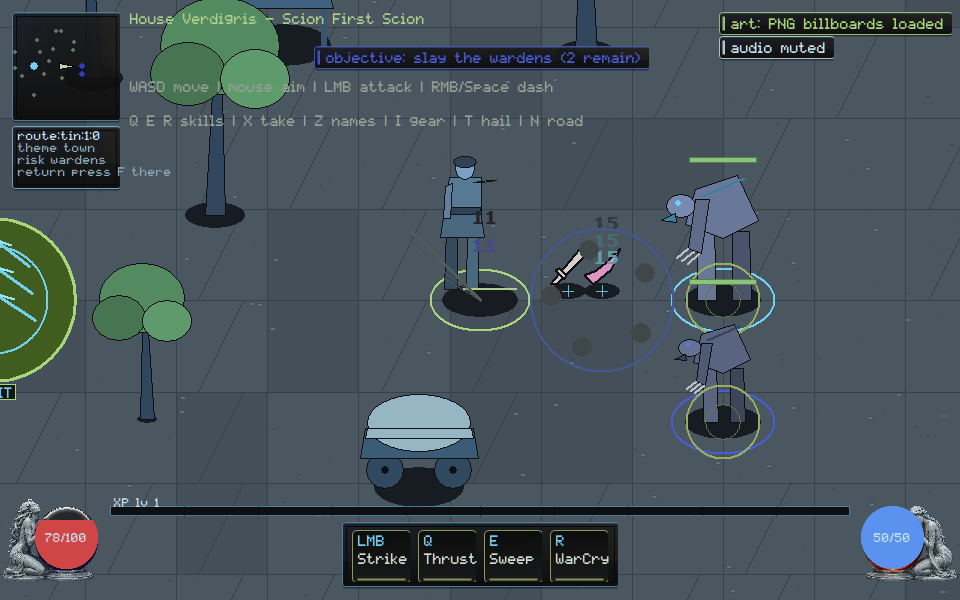
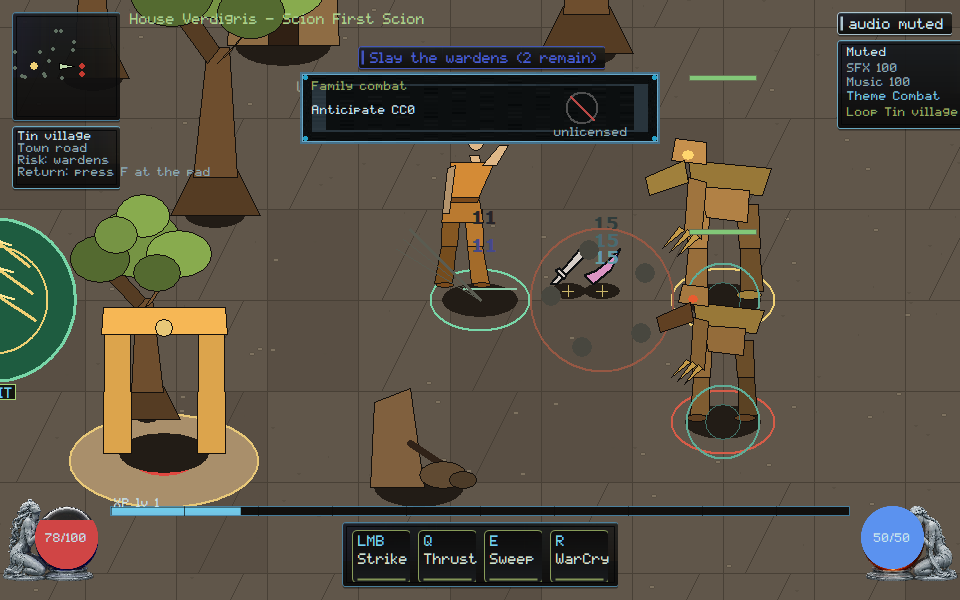
native: name the licensed combat family so an unlicensed preview cannot certify

diff --git a/native/client/main.cpp b/native/client/main.cpp
@@ -474,6 +474,7 @@ struct ClientState {
   bool voice_budget_review_strip = false;
   bool tone_adapter_review_strip = false;
   bool recover_review_strip = false;
+  bool legal_sounds_review_strip = false;
   bool debug_overlay = false;
   // Last full paint_scene duration in milliseconds (F3 overlay); the honest
   // per-frame budget readout that catches presentation-cost regressions.
@@ -6345,6 +6346,46 @@ void paint_recover_review_strip(ClientState& state, HDC dc, const RECT& bounds,
   SelectObject(dc, old_font);
 }
 
+void paint_legal_sounds_review_strip(ClientState& state, HDC dc, const RECT& bounds,
+                                     render::List& rl) {
+  if (!state.legal_sounds_review_strip) return;
+  const int s = hud_scale(static_cast<int>(bounds.bottom));
+  const int pane_w = 360 * s;
+  const int pane_h = 72 * s;
+  const int left = (static_cast<int>(bounds.right) - pane_w) / 2;
+  const int top = 72 * s;
+  RECT pane{left, top, left + pane_w, top + pane_h};
+  if (!draw_framekit_nine(state.billboards, dc, state.billboards.fk_panel, pane))
+    skin::panel(dc, pane, skin::kVerdigris, 235, 8.0f);
+  rl.push_back({render::Op::Hud, static_cast<double>(left),
+                static_cast<double>(top), 0.0, 1, "legal-strip"});
+  SetBkMode(dc, TRANSPARENT);
+  HGDIOBJ old_font = SelectObject(dc, skin::font_small());
+  SetTextColor(dc, skin::kVerdigris);
+  const char* title = verdigris::client::sound_family::owner_family_label();
+  TextOutA(dc, left + 12 * s, top + 8 * s, title, static_cast<int>(strlen(title)));
+  SetTextColor(dc, skin::kInk);
+  const char* anticipate = verdigris::client::sound_family::owner_anticipate_label();
+  TextOutA(dc, left + 12 * s, top + 32 * s, anticipate,
+           static_cast<int>(strlen(anticipate)));
+  const int rx = left + pane_w - 78 * s;
+  const int ry = top + 36 * s;
+  ring_ellipse(dc, rx, ry, 16 * s, 16 * s, RGB(80, 80, 80), 2);
+  draw_line(dc, rx - 12 * s, ry - 12 * s, rx + 12 * s, ry + 12 * s, RGB(185, 72, 69),
+            2);
+  SetTextColor(dc, skin::kInkDim);
+  const char* rejected = "unlicensed";
+  TextOutA(dc, rx - 28 * s, top + pane_h - 18 * s, rejected,
+           static_cast<int>(strlen(rejected)));
+  rl.push_back({render::Op::Hud, static_cast<double>(left + 12 * s),
+                static_cast<double>(top + 8 * s), 0.0, 1, "family:combat"});
+  rl.push_back({render::Op::Hud, static_cast<double>(left + 12 * s),
+                static_cast<double>(top + 32 * s), 0.0, 1, "anticipate:cc0"});
+  rl.push_back({render::Op::Hud, static_cast<double>(rx), static_cast<double>(ry),
+                0.0, 0, "legal-strip:unlicensed-rejected"});
+  SelectObject(dc, old_font);
+}
+
 const char* attack_stage_label(vector_art::Pose::AttackStage stage) {
   switch (stage) {
     case vector_art::Pose::AttackStage::Windup:
@@ -7368,6 +7409,7 @@ void paint_scene(ClientState& state, HDC dc, const RECT& bounds) {
   paint_voice_budget_review_strip(state, dc, bounds, rl);
   paint_tone_adapter_review_strip(state, dc, bounds, rl);
   paint_recover_review_strip(state, dc, bounds, rl);
+  paint_legal_sounds_review_strip(state, dc, bounds, rl);
 
   state.render_list = std::move(rl);
   if (state.debug_overlay) {
@@ -10835,10 +10877,16 @@ int scenario_legal_sounds() {
   scenario_check(shippable("hit") && shippable("crit") && shippable("kill") &&
                      shippable("scion-lost") && shippable("warcry-expire"),
                  "legal-sounds: impact and warning cues carry SPDX provenance");
-  scenario_check(shippable("cosmetic"),
-                 "legal-sounds: swing-family placeholder is sourced");
+  scenario_check(shippable("attack-anticipate") && shippable("cosmetic"),
+                 "legal-sounds: swing-family windup attack-anticipate is sourced");
   scenario_check(!shippable("unlicensed-preview"),
                  "legal-sounds: missing provenance cannot ship even if audible");
+  scenario_check(verdigris::client::sound_family::unlicensed_preview_fails_review(
+                     "unlicensed-preview"),
+                 "legal-sounds: unlicensed-preview fails review");
+  scenario_check(!verdigris::client::sound_family::unlicensed_preview_fails_review(
+                     "attack-anticipate"),
+                 "legal-sounds: sourced anticipate is not treated as unlicensed");
   ClientState state;
   scenario_begin(state);
   for (int i = 0; i < 52; ++i)
@@ -10847,9 +10895,11 @@ int scenario_legal_sounds() {
     scenario_step(state, verdigris::Command::action_use(verdigris::ActionType::Melee));
   bool heard = false;
   bool all_legal = true;
+  bool voiced_anticipate = false;
   for (const auto& cue : state.audio_voiced) {
     if (cue.rfind("ambience:", 0) == 0 || cue.rfind("music:", 0) == 0) continue;
     heard = true;
+    if (cue == "attack-anticipate") voiced_anticipate = true;
     if (!shippable(cue.c_str())) {
       all_legal = false;
       std::printf("    illegal cue: %s\n", cue.c_str());
@@ -10858,6 +10908,8 @@ int scenario_legal_sounds() {
   scenario_check(heard, "legal-sounds: an ordinary fight actually voiced cues");
   scenario_check(all_legal,
                  "legal-sounds: every voiced combat cue is in the licensed family");
+  scenario_check(voiced_anticipate,
+                 "legal-sounds: the fight voiced the licensed swing windup");
   const std::string dir = art_wave_capture_dir();
   if (dir.empty()) {
     scenario_check(false, "legal-sounds: capture root rejected before any write");
@@ -10865,7 +10917,7 @@ int scenario_legal_sounds() {
   }
   const std::string manifest = dir + "\\legal-sounds-provenance.txt";
   FILE* out = nullptr;
-  fopen_s(&out, manifest.c_str(), "w");
+  fopen_s(&out, manifest.c_str(), "wb");
   scenario_check(out != nullptr, "legal-sounds: provenance table opened");
   if (out) {
     std::fprintf(out, "family=combat\nnegative=unlicensed-preview\n");
@@ -10876,9 +10928,23 @@ int scenario_legal_sounds() {
     std::fclose(out);
   }
   scenario_follow_camera(state);
+  state.legal_sounds_review_strip = true;
   const std::string png = dir + "\\legal-sounds-960x600.png";
   scenario_check(reference_present(state, 960, 600, png),
                  "legal-sounds: fight capture written");
+  bool family_hud = false;
+  bool anticipate_hud = false;
+  bool rejected_hud = false;
+  for (const auto& item : state.render_list) {
+    if (item.op != render::Op::Hud) continue;
+    if (item.label == "family:combat") family_hud = true;
+    if (item.label == "anticipate:cc0") anticipate_hud = true;
+    if (item.label == "legal-strip:unlicensed-rejected") rejected_hud = true;
+  }
+  scenario_check(family_hud && anticipate_hud,
+                 "legal-sounds: live HUD names Family combat and Anticipate CC0");
+  scenario_check(rejected_hud,
+                 "legal-sounds: live HUD rejects unlicensed as a passing family");
   return scenario_failures;
 }
 

diff --git a/native/client/sound_family.hpp b/native/client/sound_family.hpp
@@ -38,4 +38,11 @@ inline bool shippable(const char* cue_id) {
          row->source[0] != '\0';
 }
 
+inline bool unlicensed_preview_fails_review(const char* cue_id) {
+  return !shippable(cue_id);
+}
+
+inline const char* owner_family_label() { return "Family combat"; }
+inline const char* owner_anticipate_label() { return "Anticipate CC0"; }
+
 }  // namespace verdigris::client::sound_family

diff --git a/docs/rebuild/HANDOFF.md b/docs/rebuild/HANDOFF.md
@@ -1,5 +1,15 @@
 # Native reconstitution handoff
 
+## 2026-09-06 — licensed combat family on the fight (Cursor)
+
+- VG-SOUND-002: owner Family combat strip paints Anticipate CC0. An
+  unlicensed preview cannot certify even if the mixer would play it.
+  Provenance table stays SPDX CC0 including swing windup
+  `attack-anticipate`. The recapture is the tin-village fight, not a
+  generic spawn.
+- Scenario `legal-sounds` PASS. Capture viewed. Not a WAV bank. Not
+  Owner Demo. VG-TOOLS-003 stays Kimi.
+
 ## 2026-09-06 — restore keeps one live buffer (Cursor)
 
 - VG-GPU-008: recreate/resize/minimize-restore keep one pixel buffer.
@@ -312,6 +322,7 @@
   cannot pass. Scenario `bronze-stone`. Capture
   `docs/execution/captures/art-wave/bronze-stone-960x600.png`.
 - VG-SOUND-002: combat family includes swing windup `attack-anticipate`.
+  Owner Family combat / Anticipate CC0; unlicensed is the rejected control.
   `unlicensed-preview` cannot ship. Scenario `legal-sounds`. Capture
   `docs/execution/captures/art-wave/legal-sounds-960x600.png`.
 - VG-GOV-008: pack `roadmap.py validate` (200/689) plus unittest overlap
@@ -599,8 +610,8 @@ owner-stamped. Dual program heads: this branch vs
 - VG-UI-008: XInput on the 20 Hz tick (injected `PadReport` for harness).
   Glyphs `pad-glyph:*`, hotplug in/out. Mouse coordinates cannot set
   `pad:connected`. Scenario `pad-path`.
-- VG-SOUND-002: SPDX CC0 family in `sound_family.hpp`. Scenario
-  `legal-sounds`.
+- VG-SOUND-002: SPDX CC0 family in `sound_family.hpp`. Owner strip names
+  Family combat / Anticipate CC0. Scenario `legal-sounds`.
 - VG-SOUND-008: `music:explore|combat|recovery|none|muted`. Coalesced
   submit; unloaded session cannot keep a competing want. Scenario
   `music-phase`.

diff --git a/docs/execution/CROSSWALK.md b/docs/execution/CROSSWALK.md
@@ -145,7 +145,8 @@ VG-UI-008: XInput sampled on the fixed tick; A strike / B dash / X take /
 Y gear; hotplug in/out; mouse position cannot mint `pad:connected`.
 Scenario `pad-path`. Evidence `docs/execution/evidence/VG-UI-008.json`.
 VG-SOUND-002: CC0 provenance table for combat cues including swing windup
-`attack-anticipate`. `unlicensed-preview` cannot ship. Scenario `legal-sounds`.
+`attack-anticipate`. Live HUD paints Family combat / Anticipate CC0.
+`unlicensed-preview` cannot ship. Scenario `legal-sounds`.
 Evidence `docs/execution/evidence/VG-SOUND-002.json`.
 VG-SOUND-008: explore/combat/recovery music coalesced per drain; unload
 sets `music:none` and mutes the music bus so a leftover combat loop cannot

diff --git a/orchestration/CURSOR_KIMI_LANES.md b/orchestration/CURSOR_KIMI_LANES.md
@@ -594,3 +594,13 @@ Please move off that branch before taking a new native path.
 - **Stay off** `native/client/main.cpp` and `docs/execution/**`. SEC/CORE
   remain yours. GOV-002 still unstamped.
 
+## Cursor reply (2026-09-06, licensed combat family)
+
+- **Lease:** `main.cpp` still **ACTIVE**. `remote_session.cpp` stays
+  **RELEASED**. Do not re-spec TASK-0108 core/wire (`3b929637`).
+- **Landed this push:** VG-SOUND-002 — owner Family combat / Anticipate
+  CC0; unlicensed cannot certify. Capture viewed. Not a WAV bank. Not
+  Owner Demo. VG-TOOLS-003 stays yours.
+- **Stay off** `native/client/main.cpp` and `docs/execution/**`. SEC/CORE
+  remain yours. GOV-002 still unstamped.
+
